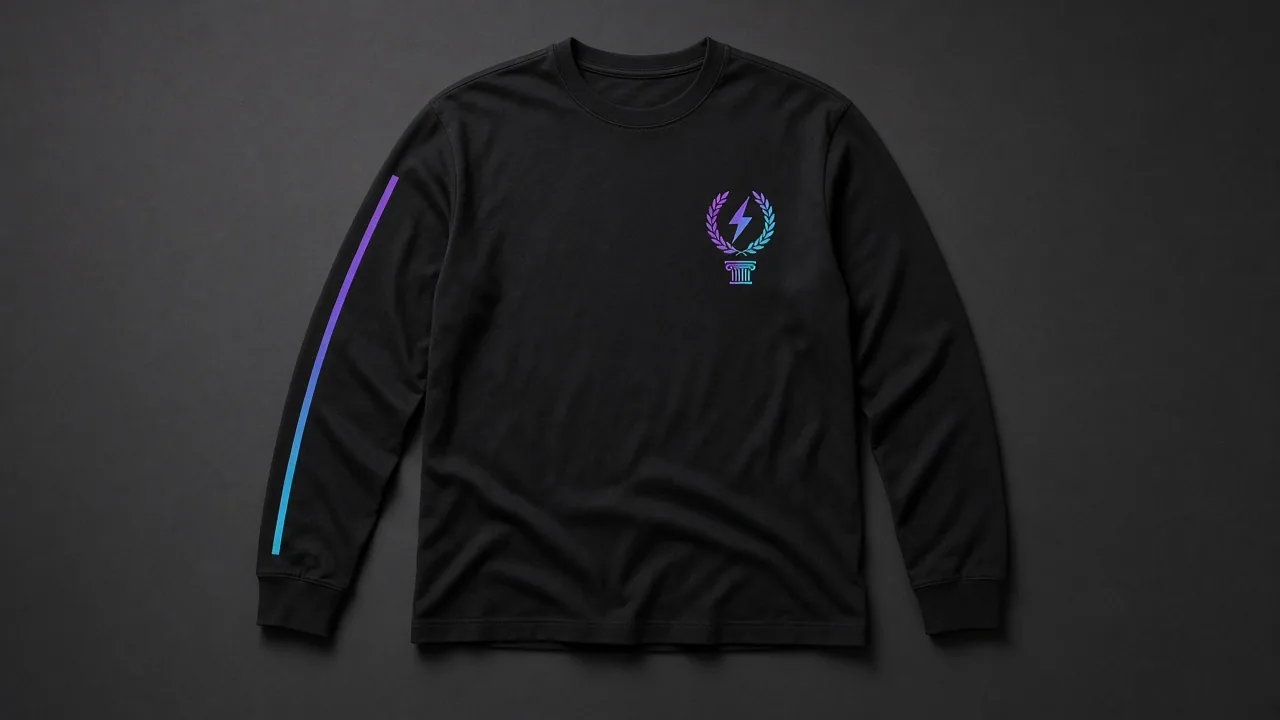
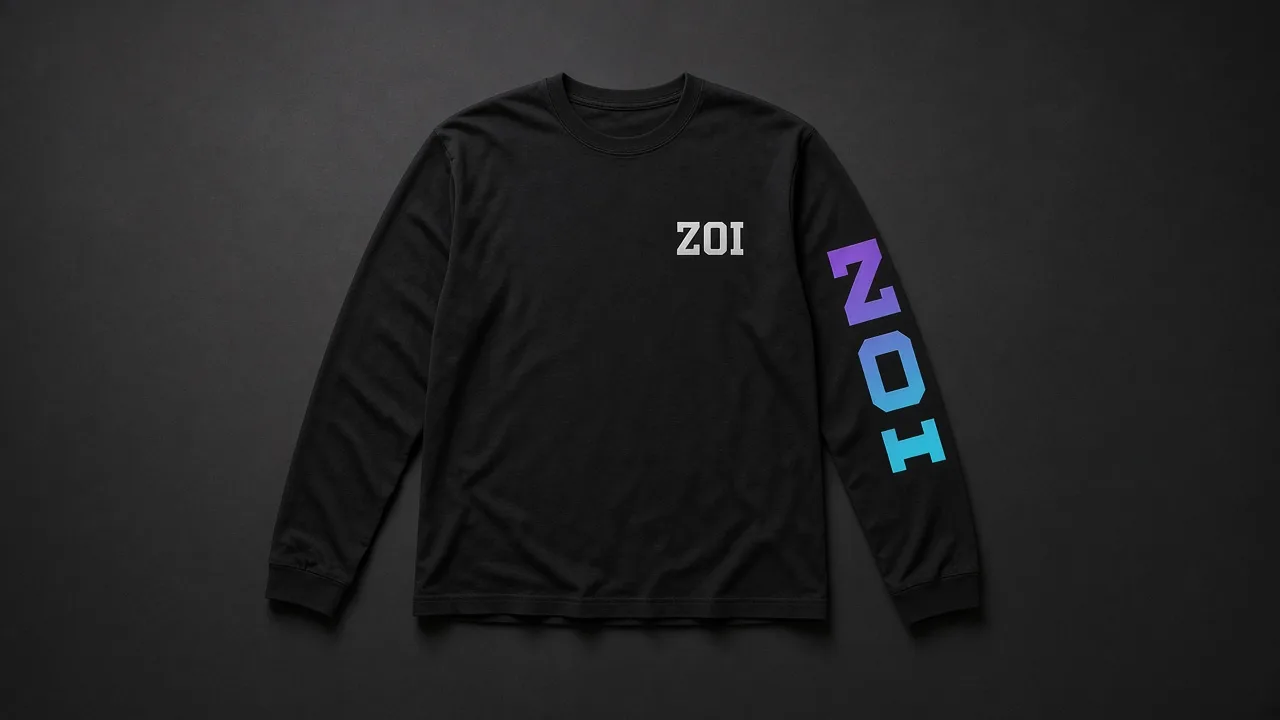
Shop: ZOI varsity lettering on apparel and pendant

diff --git a/public/shop.html b/public/shop.html
@@ -7,7 +7,7 @@
 <meta name="theme-color" content="#000000">
 <link rel="icon" href="favicon.ico" sizes="any"><link rel="icon" type="image/png" href="favicon-32.png"><link rel="apple-touch-icon" href="assets/apple-touch-icon.png">
 <link rel="canonical" href="https://zoisports.com/shop">
-<link rel="stylesheet" href="styles.css?v=3">
+<link rel="stylesheet" href="styles.css?v=5">
 </head>
 <body>
 <header class="nav"><a href="/" class="brand"><img src="assets/zoi-icon.png" alt="" width="36" height="36">ZOI</a>
@@ -17,18 +17,18 @@
 <section class="shop-hero"><span class="est">EST. 2026</span><h2>The ZOI Shop</h2><p class="tag">Zero builds. All life. Official merch is on the way.</p></section>
 <div class="stripes" aria-hidden="true"></div>
 <section><div class="cards three products">
- <div class="card product flagship"><img src="/assets/shop/letterman.webp?v=3" alt="ZOI Letterman Jacket mockup" width="1400" height="788"><div class="info"><span class="badge">Flagship</span><h3>ZOI Letterman Jacket</h3><p>The iconic piece. Black wool body, black leather sleeves, gold-and-cyan striped rib collar, cuffs and waistband, snap front, and the violet-and-cyan crest on the chest.</p><p class="price">Price TBA</p><button class="btn" type="button" disabled>Coming soon</button></div></div>
- <div class="card product"><img src="/assets/shop/jersey.webp?v=3" alt="ZOI Pro Jersey mockup" width="1400" height="788" loading="lazy"><h3>ZOI Pro Jersey</h3><p>The match-day kit. Black V-neck with the gold-laurel crest, cyan-to-gold sleeve trim.</p><p class="price">Price TBA</p><button class="btn" type="button" disabled>Coming soon</button></div>
- <div class="card product"><img src="/assets/shop/hoodie.webp?v=3" alt="Crest Hoodie mockup" width="1400" height="788" loading="lazy"><h3>Crest Hoodie</h3><p>Heavyweight black hoodie with a violet ZOI crest on the chest.</p><p class="price">Price TBA</p><button class="btn" type="button" disabled>Coming soon</button></div>
- <div class="card product"><img src="/assets/shop/tee.webp?v=3" alt="Varsity Tee mockup" width="1400" height="788" loading="lazy"><h3>Varsity Tee</h3><p>Black tee with a gold-and-violet crest and a cyan-and-gold striped collar.</p><p class="price">Price TBA</p><button class="btn" type="button" disabled>Coming soon</button></div>
- <div class="card product"><img src="/assets/shop/longsleeve.webp?v=3" alt="ZOI Varsity Long Sleeve mockup" width="1400" height="788" loading="lazy"><h3>ZOI Varsity Long Sleeve</h3><p>Black long sleeve with a small chest crest and a violet-to-cyan sleeve stripe.</p><p class="price">Price TBA</p><button class="btn" type="button" disabled>Coming soon</button></div>
- <div class="card product"><img src="/assets/shop/cap.webp?v=4" alt="Crest Cap mockup" width="1400" height="788" loading="lazy"><h3>Crest Cap</h3><p>Structured black cap with a curved brim, raised violet-and-cyan crest embroidery and an adjustable back strap.</p><p class="price">Price TBA</p><button class="btn" type="button" disabled>Coming soon</button></div>
- <div class="card product"><img src="/assets/shop/mousepad.webp?v=3" alt="Desk Mousepad mockup" width="1400" height="788" loading="lazy"><h3>Desk Mousepad</h3><p>Extended black desk mat with the violet-and-cyan crest in the corner.</p><p class="price">Price TBA</p><button class="btn" type="button" disabled>Coming soon</button></div>
- <div class="card product"><img src="/assets/shop/tumbler.webp?v=3" alt="ZOI Insulated Tumbler mockup" width="1400" height="788" loading="lazy"><h3>ZOI Insulated Tumbler</h3><p>Matte black insulated tumbler with handle and straw lid, violet-and-cyan crest on the front.</p><p class="price">Price TBA</p><button class="btn" type="button" disabled>Coming soon</button></div>
- <div class="card product"><img src="/assets/shop/coin.webp?v=3" alt="ZOI Crest Coin mockup" width="1400" height="788" loading="lazy"><h3>ZOI Crest Coin</h3><p>Heavyweight antique-silver flip coin with the column-and-laurel crest in relief. Built for queue time.</p><p class="price">Price TBA</p><button class="btn" type="button" disabled>Coming soon</button></div>
- <div class="card product"><img src="/assets/shop/stickers.webp?v=3" alt="Sticker Pack mockup" width="1400" height="788" loading="lazy"><h3>Sticker Pack</h3><p>Holographic die-cut sticker set: crest, laurel and lightning-bolt designs.</p><p class="price">Price TBA</p><button class="btn" type="button" disabled>Coming soon</button></div>
+ <div class="card product flagship"><img src="/assets/shop/letterman.webp?v=5" alt="ZOI Letterman Jacket mockup" width="1400" height="788"><div class="info"><span class="badge">Flagship</span><h3>ZOI Letterman Jacket</h3><p>The iconic piece. Black wool body, black leather sleeves, gold-and-cyan striped rib collar, cuffs and waistband, snap front, and the violet-and-cyan crest on the chest.</p><p class="price">Price TBA</p><button class="btn" type="button" disabled>Coming soon</button></div></div>
+ <div class="card product"><img src="/assets/shop/jersey.webp?v=5" alt="ZOI Pro Jersey mockup" width="1400" height="788" loading="lazy"><h3>ZOI Pro Jersey</h3><p>The match-day kit. Black V-neck with the gold-laurel crest, cyan-to-gold sleeve trim.</p><p class="price">Price TBA</p><button class="btn" type="button" disabled>Coming soon</button></div>
+ <div class="card product"><img src="/assets/shop/hoodie.webp?v=5" alt="Crest Hoodie mockup" width="1400" height="788" loading="lazy"><h3>Crest Hoodie</h3><p>Heavyweight black hoodie with a violet ZOI crest on the chest.</p><p class="price">Price TBA</p><button class="btn" type="button" disabled>Coming soon</button></div>
+ <div class="card product"><img src="/assets/shop/tee.webp?v=5" alt="Varsity Tee mockup" width="1400" height="788" loading="lazy"><h3>Varsity Tee</h3><p>Black tee with a gold-and-violet crest and a cyan-and-gold striped collar.</p><p class="price">Price TBA</p><button class="btn" type="button" disabled>Coming soon</button></div>
+ <div class="card product"><img src="/assets/shop/longsleeve.webp?v=5" alt="ZOI Varsity Long Sleeve mockup" width="1400" height="788" loading="lazy"><h3>ZOI Varsity Long Sleeve</h3><p>Black long sleeve with a small chest crest and a violet-to-cyan sleeve stripe.</p><p class="price">Price TBA</p><button class="btn" type="button" disabled>Coming soon</button></div>
+ <div class="card product"><img src="/assets/shop/cap.webp?v=5" alt="Crest Cap mockup" width="1400" height="788" loading="lazy"><h3>Crest Cap</h3><p>Structured black cap with a curved brim, raised violet-and-cyan crest embroidery and an adjustable back strap.</p><p class="price">Price TBA</p><button class="btn" type="button" disabled>Coming soon</button></div>
+ <div class="card product"><img src="/assets/shop/mousepad.webp?v=5" alt="Desk Mousepad mockup" width="1400" height="788" loading="lazy"><h3>Desk Mousepad</h3><p>Extended black desk mat with the violet-and-cyan crest in the corner.</p><p class="price">Price TBA</p><button class="btn" type="button" disabled>Coming soon</button></div>
+ <div class="card product"><img src="/assets/shop/tumbler.webp?v=5" alt="ZOI Insulated Tumbler mockup" width="1400" height="788" loading="lazy"><h3>ZOI Insulated Tumbler</h3><p>Matte black insulated tumbler with handle and straw lid, violet-and-cyan crest on the front.</p><p class="price">Price TBA</p><button class="btn" type="button" disabled>Coming soon</button></div>
+ <div class="card product"><img src="/assets/shop/coin.webp?v=5" alt="ZOI Crest Coin mockup" width="1400" height="788" loading="lazy"><h3>ZOI Crest Coin</h3><p>Heavyweight antique-silver flip coin with the column-and-laurel crest in relief. Built for queue time.</p><p class="price">Price TBA</p><button class="btn" type="button" disabled>Coming soon</button></div>
+ <div class="card product"><img src="/assets/shop/stickers.webp?v=5" alt="Sticker Pack mockup" width="1400" height="788" loading="lazy"><h3>Sticker Pack</h3><p>Holographic die-cut sticker set: crest, laurel and lightning-bolt designs.</p><p class="price">Price TBA</p><button class="btn" type="button" disabled>Coming soon</button></div>
 </div>
-<div class="cards"><div class="card product flagship reverse"><img src="/assets/shop/pendant-crest.webp?v=3" alt="ZOI Iced Crest Pendant mockup" width="900" height="900" style="object-fit:contain;background:#05060a" loading="lazy"><div class="info"><span class="badge">Featured</span><h3>ZOI Iced Crest Pendant</h3><p>The ZOI crest as one piece — lightning bolt, laurel wreath and Ionic column — pavé-set with stones in silver-tone, on a clean white gold chain.</p><p class="price">Price TBA</p><button class="btn" type="button" disabled>Coming soon</button></div></div></div>
+<div class="cards"><div class="card product flagship reverse"><img src="/assets/shop/pendant-crest.webp?v=5" alt="ZOI Iced Pendant mockup" width="1400" height="788" loading="lazy"><div class="info"><span class="badge">Featured</span><h3>ZOI Iced Pendant</h3><p>ZOI in collegiate block letters, pavé-set with white stones in white gold, on a slim rope chain.</p><p class="price">Price TBA</p><button class="btn" type="button" disabled>Coming soon</button></div></div></div>
 <p class="notify">Get notified when the shop drops: email <a href="mailto:hello@zoisports.com?subject=Notify%20me%20when%20the%20ZOI%20shop%20drops">hello@zoisports.com</a>.</p>
 <p class="small muted">Images are design mockups; final products may differ.</p></section>
 </main>

diff --git a/public/index.html b/public/index.html
@@ -8,7 +8,7 @@
 <link rel="icon" href="favicon.ico" sizes="any"><link rel="icon" type="image/png" href="favicon-32.png"><link rel="apple-touch-icon" href="assets/apple-touch-icon.png">
 <meta property="og:title" content="ZOI — Life in Zero Build"><meta property="og:description" content="New competitive Fortnite Zero Build org. Tryouts open."><link rel="canonical" href="https://zoisports.com/"><meta property="og:url" content="https://zoisports.com/"><meta property="og:image" content="https://zoisports.com/assets/og.jpg"><meta property="og:type" content="website"><meta name="twitter:card" content="summary_large_image">
 <link rel="preload" href="assets/fonts/Graduate-Regular.ttf" as="font" type="font/ttf" crossorigin>
-<link rel="stylesheet" href="styles.css?v=3">
+<link rel="stylesheet" href="styles.css?v=5">
 </head>
 <body>
 <header class="nav"><a href="#top" class="brand"><img src="assets/zoi-icon.png" alt="" width="36" height="36">ZOI</a>
@@ -78,7 +78,7 @@
 </section>
 <div class="stripes" aria-hidden="true"></div>
 <section id="shop"><h2>Shop</h2><p>Official ZOI merch is coming — a flagship letterman jacket, jerseys, hoodies and more.</p>
- <div class="teaser"><img src="/assets/shop/jersey.webp?v=3" alt="ZOI Pro Jersey mockup" width="1400" height="788" loading="lazy"><img src="/assets/shop/hoodie.webp?v=3" alt="Crest Hoodie mockup" width="1400" height="788" loading="lazy"><img src="/assets/shop/letterman.webp?v=3" alt="ZOI Letterman Jacket mockup" width="1400" height="788" loading="lazy"></div>
+ <div class="teaser"><img src="/assets/shop/jersey.webp?v=5" alt="ZOI Pro Jersey mockup" width="1400" height="788" loading="lazy"><img src="/assets/shop/hoodie.webp?v=5" alt="Crest Hoodie mockup" width="1400" height="788" loading="lazy"><img src="/assets/shop/letterman.webp?v=5" alt="ZOI Letterman Jacket mockup" width="1400" height="788" loading="lazy"></div>
  <p><a class="btn ghost" href="/shop">Preview the shop</a></p></section>
 <div class="stripes" aria-hidden="true"></div>
 <section id="socials"><h2>Socials</h2><p>Find us everywhere as <strong>@zoi_sports</strong> — channels launching soon.</p>
